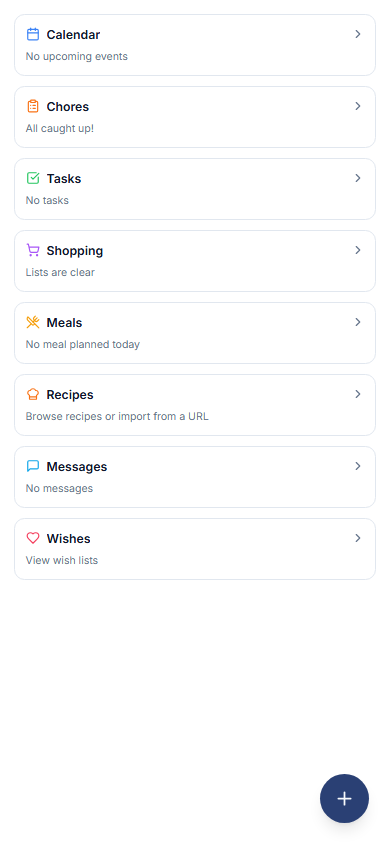
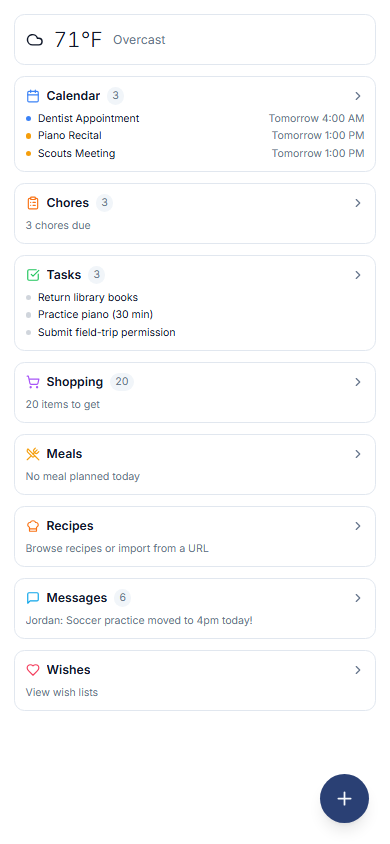
fix(dashboard): mobile cards never populated with data (#47)
* fix(dashboard): mobile cards never populated with data

Both Dashboard.tsx and MobileDashboard.tsx were independently calling
useDashboardData(), so every domain hook (useTasks, useEvents, useChores,
etc.) ran twice in parallel against the same URLs. Combined with StrictMode's
dev double-mount, MobileDashboard's useFetch state got stuck at loading:true
indefinitely while the parent Dashboard's mirror fetches resolved successfully
but never reached the mobile tree.

Lift useDashboardData to a single instance in Dashboard.tsx and pass the
result to MobileDashboard as a prop. Halves the network traffic on dashboard
load and eliminates the race.

Also: fix screenshot capture's waitForContentReady to match the Unicode
ellipsis used in WeekendView's "Loading…" indicator (previously only matched
three literal periods), and bump weekend.png settleMs as a safety margin.
The stale weekend.png in docs/demos showed the loading state for this reason;
regenerated alongside dashboard-mobile.png.

* test(openmeteo): make hourly times test time-of-day-independent

The test planted fixture hours 09:00 / 10:00 / 11:00 today, but the
implementation filters to (now - 1h, now + 12h], so any CI run after
12:00 Chicago time would see all three hours fall outside the window
and the assertion would fail. The original commit happened to land in
the morning Chicago time, so it passed at write time and then started
failing as soon as a CI run landed after lunch.
[…]

Pull request: fix(dashboard): mobile cards never populated with data
## Summary
- Mobile dashboard cards were stuck on empty-state strings ("No tasks", "No upcoming events", "Lists are clear") even though `/api/*` returned real data
- Root cause: `Dashboard.tsx` and `MobileDashboard.tsx` were each calling `useDashboardData()` — every domain hook (useTasks, useEvents, useChores, …) was firing twice in parallel against the same URLs. Combined with StrictMode's dev-mode double-mount, MobileDashboard's `useFetch` state stayed stuck at `loading: true, data: []` while the parent's mirror fetches resolved fine
- Fix: lift `useDashboardData` to a single call in `Dashboard.tsx`; pass the result to `MobileDashboard` as a prop. Halves the network traffic on dashboard load and removes the race

## Before / After
Before: every card showed empty-state text on mobile (also captured in stale `dashboard-mobile.png` in docs/demos).
After: Calendar shows 3 events, Chores shows 3 due, Tasks shows 3 items, Shopping shows 20 items, Messages shows 6 with preview — same data the desktop dashboard shows.

## Adjacent fix
The stale `weekend.png` in docs/demos showed a "Loading…" state. The screenshot script's `waitForContentReady` regex only matched three literal periods, not the Unicode ellipsis `…` that WeekendView renders. Updated regex + bumped weekend settleMs. Regenerated both screenshots.

## Test plan
- [x] `npx tsc --noEmit` — clean
[…]

diff --git a/src/lib/integrations/__tests__/openmeteo.test.ts b/src/lib/integrations/__tests__/openmeteo.test.ts
@@ -279,9 +279,28 @@ describe('openmeteo.fetchWeatherData', () => {
 
   it('parses hourly times as wall-clock-in-location', async () => {
     // Same regression as the sunrise test, applied to the hourly forecast.
-    const today = localDate(0, 'America/Chicago');
+    // Build the fixture hours relative to `now` in Chicago so the (now-1h, now+12h]
+    // filter window always includes them — otherwise the test is time-of-day
+    // sensitive and fails on CI runs that happen too late in the day.
+    const chicagoNow = new Intl.DateTimeFormat('en-CA', {
+      timeZone: 'America/Chicago',
+      year: 'numeric',
+      month: '2-digit',
+      day: '2-digit',
+      hour: '2-digit',
+      minute: '2-digit',
+      hour12: false,
+    }).formatToParts(new Date());
+    const part = (type: string) => chicagoNow.find((p) => p.type === type)!.value;
+    const baseHour = Number(part('hour'));
+    const ymd = `${part('year')}-${part('month')}-${part('day')}`;
+    const h1 = String(baseHour).padStart(2, '0');
+    const h2 = String((baseHour + 1) % 24).padStart(2, '0');
+    const h3 = String((baseHour + 2) % 24).padStart(2, '0');
+    const fixtureHours = [`${h1}:00`, `${h2}:00`, `${h3}:00`];
+
     const response = buildResponse('America/Chicago');
-    response.hourly.time = [`${today}T09:00`, `${today}T10:00`, `${today}T11:00`];
+    response.hourly.time = fixtureHours.map((h) => `${ymd}T${h}`);
     response.hourly.temperature_2m = [70, 71, 72];
     response.hourly.precipitation_probability = [0, 0, 0];
     response.hourly.precipitation = [0, 0, 0];
@@ -295,9 +314,9 @@ describe('openmeteo.fetchWeatherData', () => {
     const { fetchWeatherData } = await import('../openmeteo');
     const result = await fetchWeatherData();
 
-    // Hourly is filtered to a 12-hour window around `now`, so at least one of
-    // the three fixture hours should survive. Whichever does, its wall-clock
-    // in America/Chicago must read back as one of "09:00" / "10:00" / "11:00".
+    // All three fixture hours straddle `now` so the (now-1h, now+12h] window
+    // catches them. Each surviving hour's wall-clock in Chicago must match
+    // one of the three we planted.
     expect(result.hourly && result.hourly.length).toBeGreaterThan(0);
     if (result.hourly && result.hourly.length > 0) {
       const formatter = new Intl.DateTimeFormat('en-US', {
@@ -307,7 +326,7 @@ describe('openmeteo.fetchWeatherData', () => {
         hour12: false,
       });
       const wallClocks = result.hourly.map((h) => formatter.format(h.time));
-      expect(wallClocks.every((wc) => ['09:00', '10:00', '11:00'].includes(wc))).toBe(true);
+      expect(wallClocks.every((wc) => fixtureHours.includes(wc))).toBe(true);
     }
   });
 

diff --git a/src/components/dashboard/MobileDashboard.tsx b/src/components/dashboard/MobileDashboard.tsx
@@ -22,7 +22,7 @@ import {
 import { CSS } from '@dnd-kit/utilities';
 import { restrictToVerticalAxis } from '@dnd-kit/modifiers';
 import { cn } from '@/lib/utils';
-import { useDashboardData } from './useDashboardData';
+import type { useDashboardData } from './useDashboardData';
 import { useMobileCardOrder, loadHiddenCards } from './useMobileCardOrder';
 import { useBusTracking } from '@/lib/hooks/useBusTracking';
 import {
@@ -66,8 +66,11 @@ function SortableCard({ id, children }: { id: string; children: React.ReactNode 
   );
 }
 
-export const MobileDashboard = memo(function MobileDashboard() {
-  const data = useDashboardData();
+export interface MobileDashboardProps {
+  data: ReturnType<typeof useDashboardData>;
+}
+
+export const MobileDashboard = memo(function MobileDashboard({ data }: MobileDashboardProps) {
   const { order, setOrder } = useMobileCardOrder();
   const { routes: busRoutes } = useBusTracking();
   const [hiddenCards] = useState(loadHiddenCards);

diff --git a/scripts/capture-screenshots.ts b/scripts/capture-screenshots.ts
@@ -246,7 +246,7 @@ const SCREENSHOTS: CaptureSpec[] = [
     name: 'weekend',
     url: '/weekend',
     description: 'Weekend Ideas activity board',
-    settleMs: 1000,
+    settleMs: 3000,
   },
 
   // ─── Messages ──────────────────────────────────────────────
@@ -294,7 +294,7 @@ async function waitForContentReady(page: Page, settleMs = 3500): Promise<void> {
       () => {
         const text = document.body.innerText.trim();
         if (!text || text === 'Prism') return false;
-        if (/Loading[\s\w]*\.\.\./i.test(text)) return false;
+        if (/Loading[\s\w]*(\.\.\.|…)/i.test(text)) return false;
         // Skeleton placeholders (animate-pulse) and spinners (animate-spin)
         // are both indicators that content is still loading.
         const loaders = document.querySelectorAll(

diff --git a/src/components/dashboard/Dashboard.tsx b/src/components/dashboard/Dashboard.tsx
@@ -316,7 +316,7 @@ export function Dashboard({
         onLogout={activeUser ? clearActiveUser : undefined}
         onLogin={handleLogin}
       >
-        <MobileDashboard />
+        <MobileDashboard data={data} />
       </AppShell>
     );
   }

diff --git a/docs/CHANGELOG.md b/docs/CHANGELOG.md
@@ -2,6 +2,14 @@
 
 All notable changes to Prism are documented in this file.
 
+## Unreleased
+
+### Bug Fixes
+- **Mobile dashboard data never populated**: Cards stayed on "No tasks" / "No upcoming events" / "Lists are clear" even though `/api/*` returned real data. Both `Dashboard.tsx` and `MobileDashboard.tsx` were independently calling `useDashboardData()`, causing every domain hook to fire twice in parallel against the same URL. The duplicate inside StrictMode's dev double-mount left MobileDashboard's `useFetch` permanently stuck at `loading:true, data:[]`. Fix: lift the data hook to a single call in `Dashboard.tsx` and pass it to `MobileDashboard` as a prop — halves the network traffic on dashboard load and eliminates the race.
+
+### Internal
+- **Screenshot capture: detect Unicode ellipsis in loading states**: `waitForContentReady` regex now matches both `...` and `…` so the weekend page (which renders "Loading…") no longer gets captured mid-fetch. Bumped `weekend` `settleMs` 1000 → 3000 as a safety margin.
+
 ## [1.8.0] – 2026-05-17
 
 > Send-to-Kroger cart push (every Kroger banner, OAuth per-user, SKU picker with normalized unit prices and per-item caching), recipe import from pasted OCR text with section-aware ingredients and ½×–4× scaling pills, server-side calendar sync cron with a ±90/365-day window, mobile PWA becomes agenda-only, plus the foundation Voice API for the upcoming Alexa / Home Assistant integration. Same `git pull && docker-compose up -d --build` upgrade.